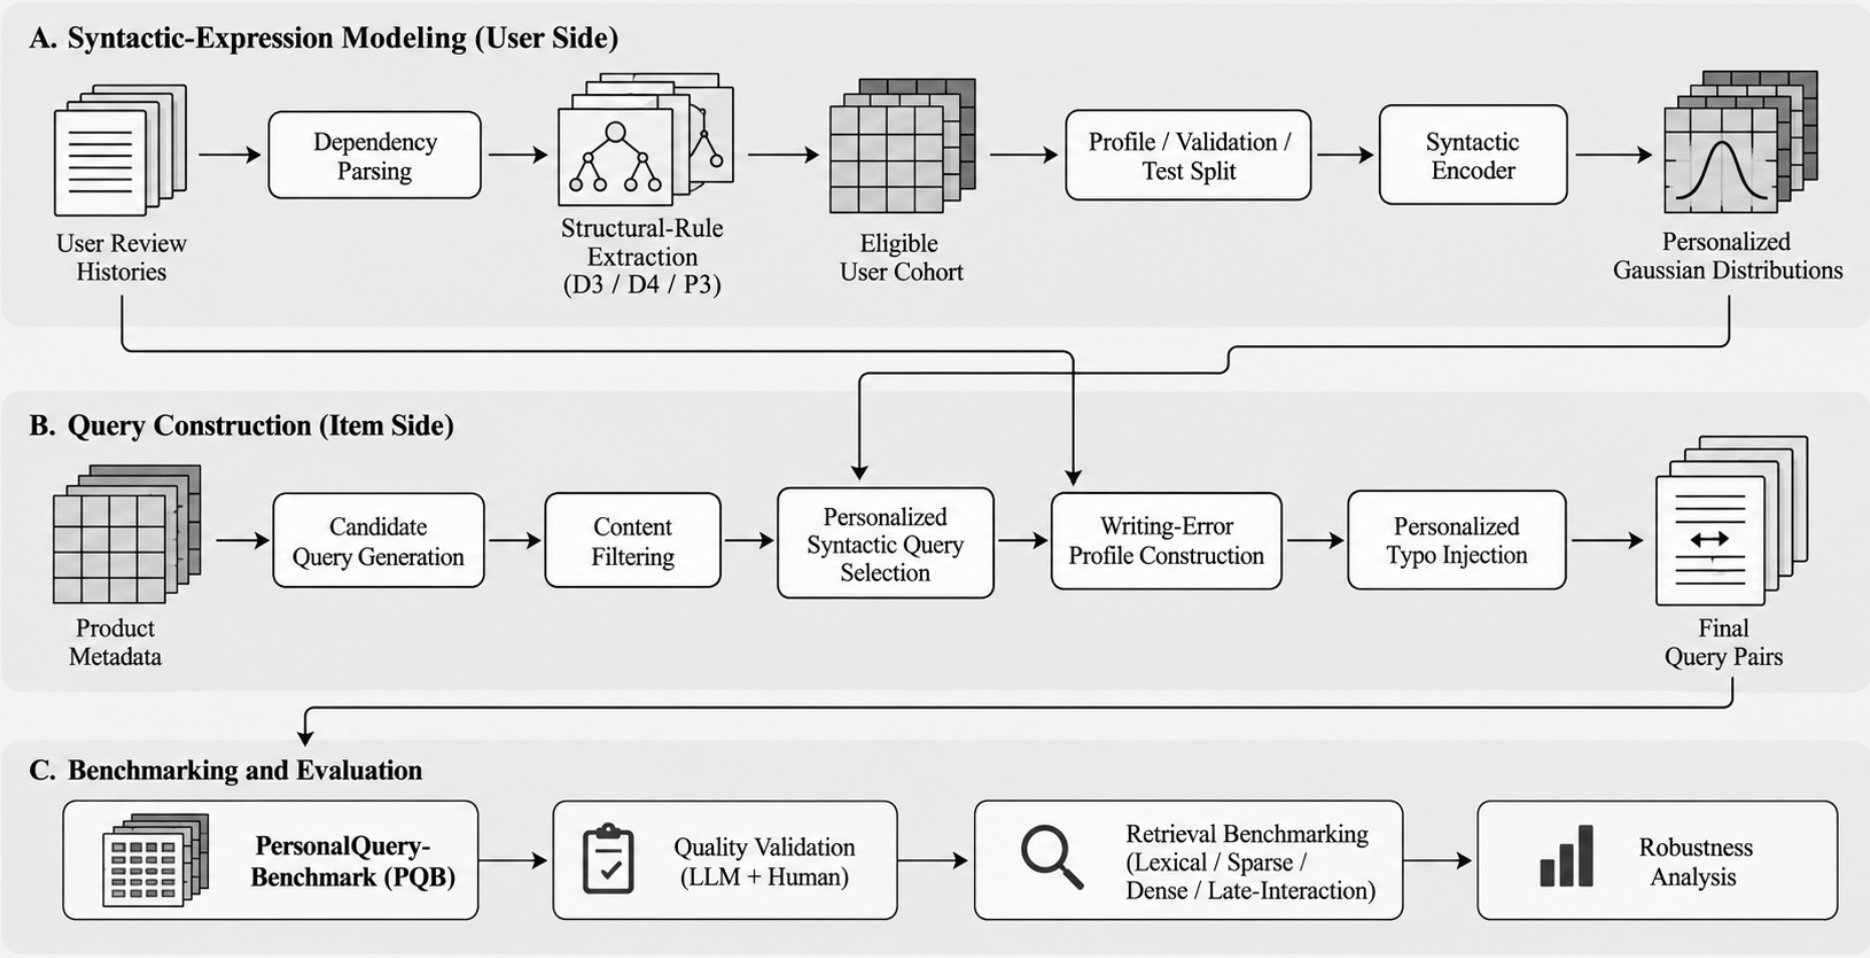
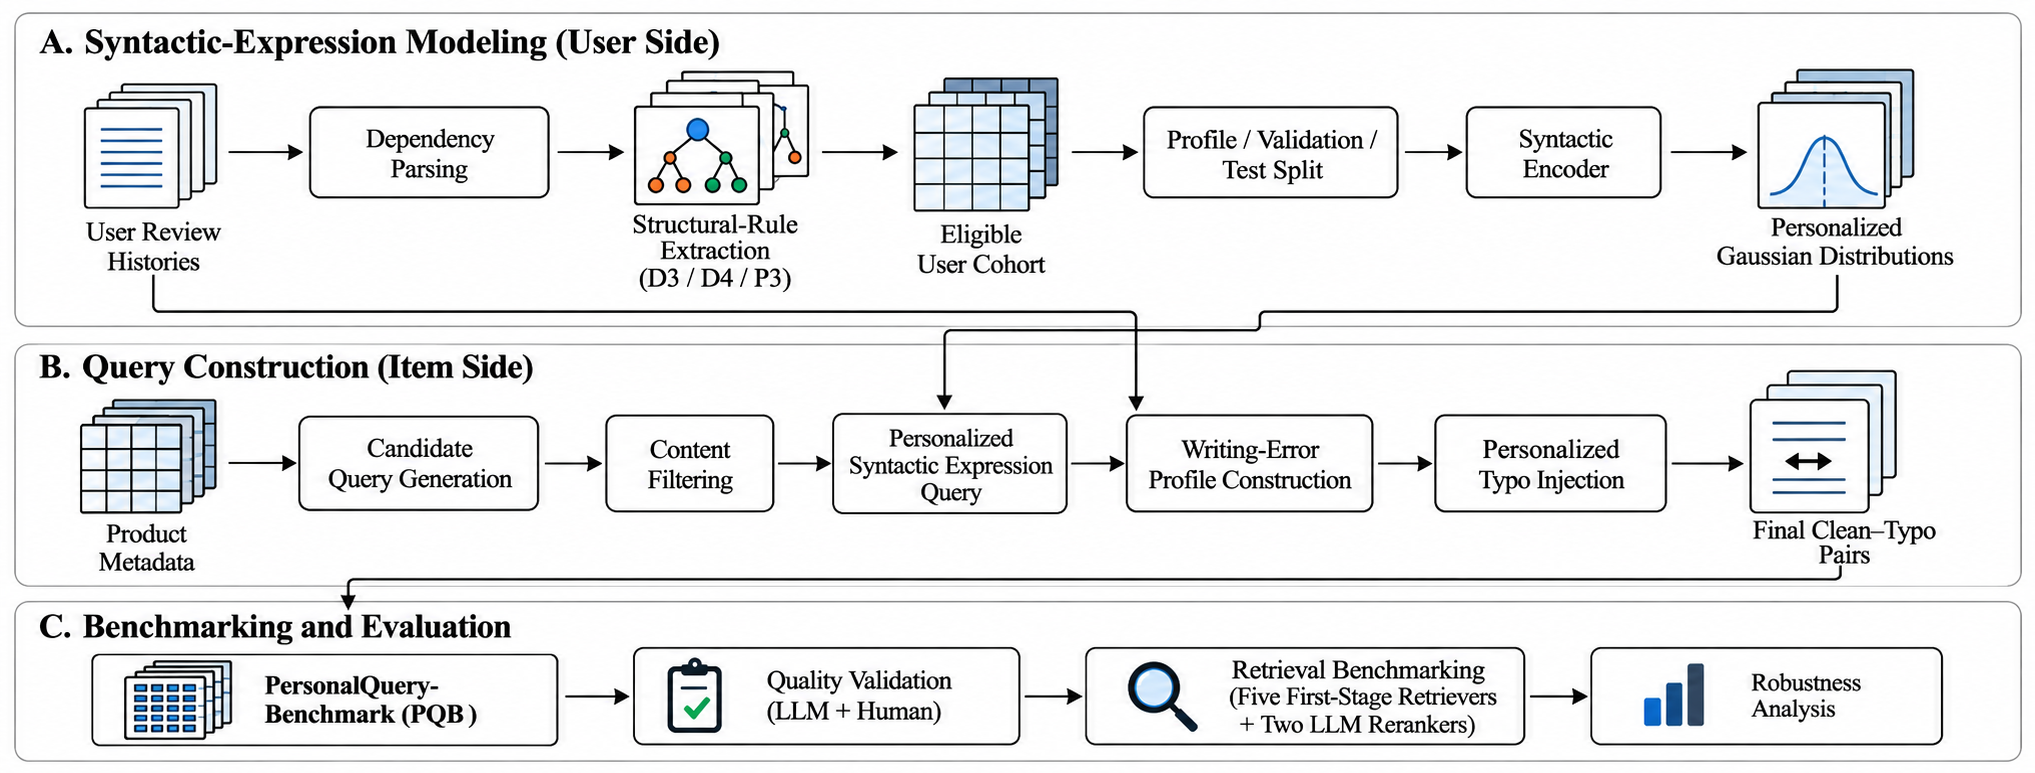
README: finish the descriptive query rename; refresh pipeline diagram
Replace the remaining raw field names so the document uses one vocabulary
throughout: the Record Schema bullets and the Example Record keys now read
"personalized syntactic expression query" and "personalized writing-error
query" instead of syntax_query and typo_query.

The example block stays valid JSON and its query texts are still taken
verbatim from dataset/, but its keys no longer match the shipped files.

pipeline.png is refreshed from the working tree; it is a valid 2035x773 PNG
and already uses the new terminology. The curated document structure and
line count are otherwise unchanged.

Changed region(s): [[0.0, 0.0, 1.0, 0.9935]]

diff --git a/README.md b/README.md
@@ -76,8 +76,8 @@ Every user record inside an ASIN's list has a fixed four-field shape:
 
 - `asin`: target product identifier (mirrors the surrounding key)
 - `uid`: user identifier
-- `syntax_query` (personalized syntactic expression query): the clean personalized query generated for this user–product pair (always non-empty)
-- `typo_query` (personalized writing-error query): the noisy variant of the personalized syntactic expression query, produced by injecting writing errors sampled from this user's writing-error profile; the empty string when no writing error was sampled for this pair (see Dataset Statistics for the non-empty rate)
+- personalized syntactic expression query: the clean personalized query generated for this user–product pair (always non-empty)
+- personalized writing-error query: the noisy variant of the personalized syntactic expression query, produced by injecting writing errors sampled from this user's writing-error profile; the empty string when no writing error was sampled for this pair (see Dataset Statistics for the non-empty rate)
 
 When the personalized writing-error query is non-empty, the clean and noisy queries form a within-record comparison unit for robustness evaluation. There is no per-record error annotation beyond the visible writing-error query text; the underlying error pattern is recoverable by diffing the two strings if needed.
 
@@ -100,14 +100,14 @@ The personalized writing-error query is non-empty for the majority of pairs (abo
     {
       "asin": "B09BHWCH2M",
       "uid": "AERYYQ2LT6B427JFUK626KQY3ESA",
-      "syntax_query": "I'm looking for a child door mount made of white foam, where the brand is Wittle and the style is child.",
-      "typo_query": "I'm looking for a child door moun made of white foam, where the brand is Wittle and the style is child."
+      "personalized syntactic expression query": "I'm looking for a child door mount made of white foam, where the brand is Wittle and the style is child.",
+      "personalized writing-error query": "I'm looking for a child door moun made of white foam, where the brand is Wittle and the style is child."
     },
     {
       "asin": "B09BHWCH2M",
       "uid": "AG4APLODR5CG5TCC5NVIICMQRHNQ",
-      "syntax_query": "I'm after a white foam door mount from Wittle, with a child's style and a door that requires mounting on a wall.",
-      "typo_query": "I'm after a white foam door munt frm Wittle, with a child's style and a door that reqires mounting on a wall."
+      "personalized syntactic expression query": "I'm after a white foam door mount from Wittle, with a child's style and a door that requires mounting on a wall.",
+      "personalized writing-error query": "I'm after a white foam door munt frm Wittle, with a child's style and a door that reqires mounting on a wall."
     }
   ]
 }
